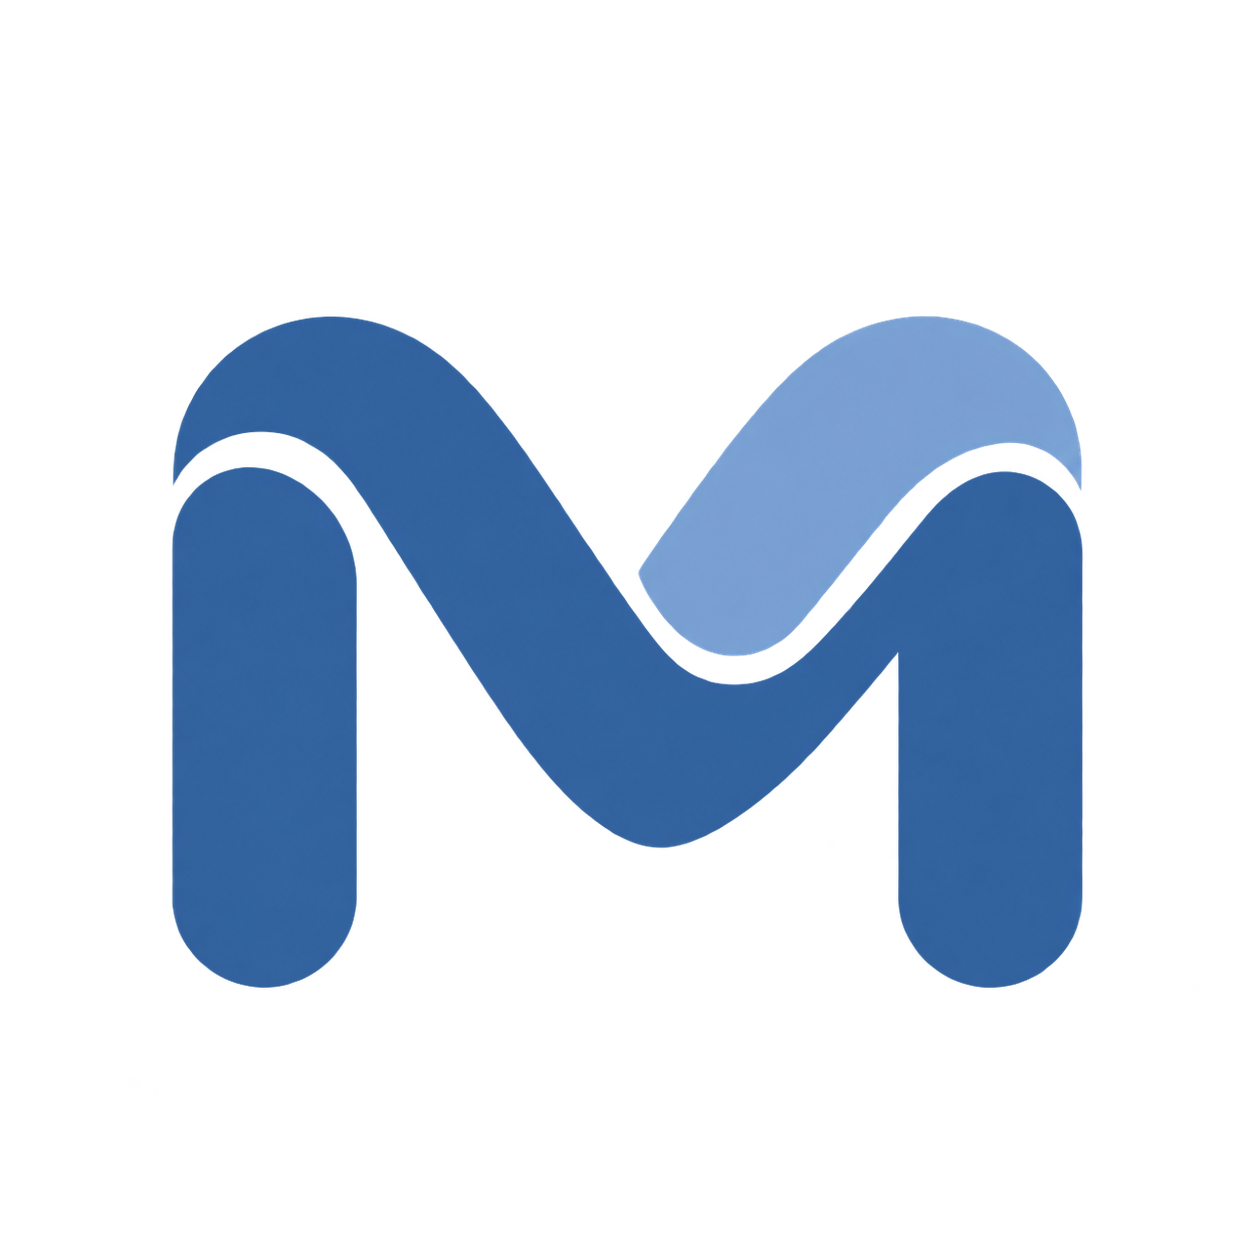
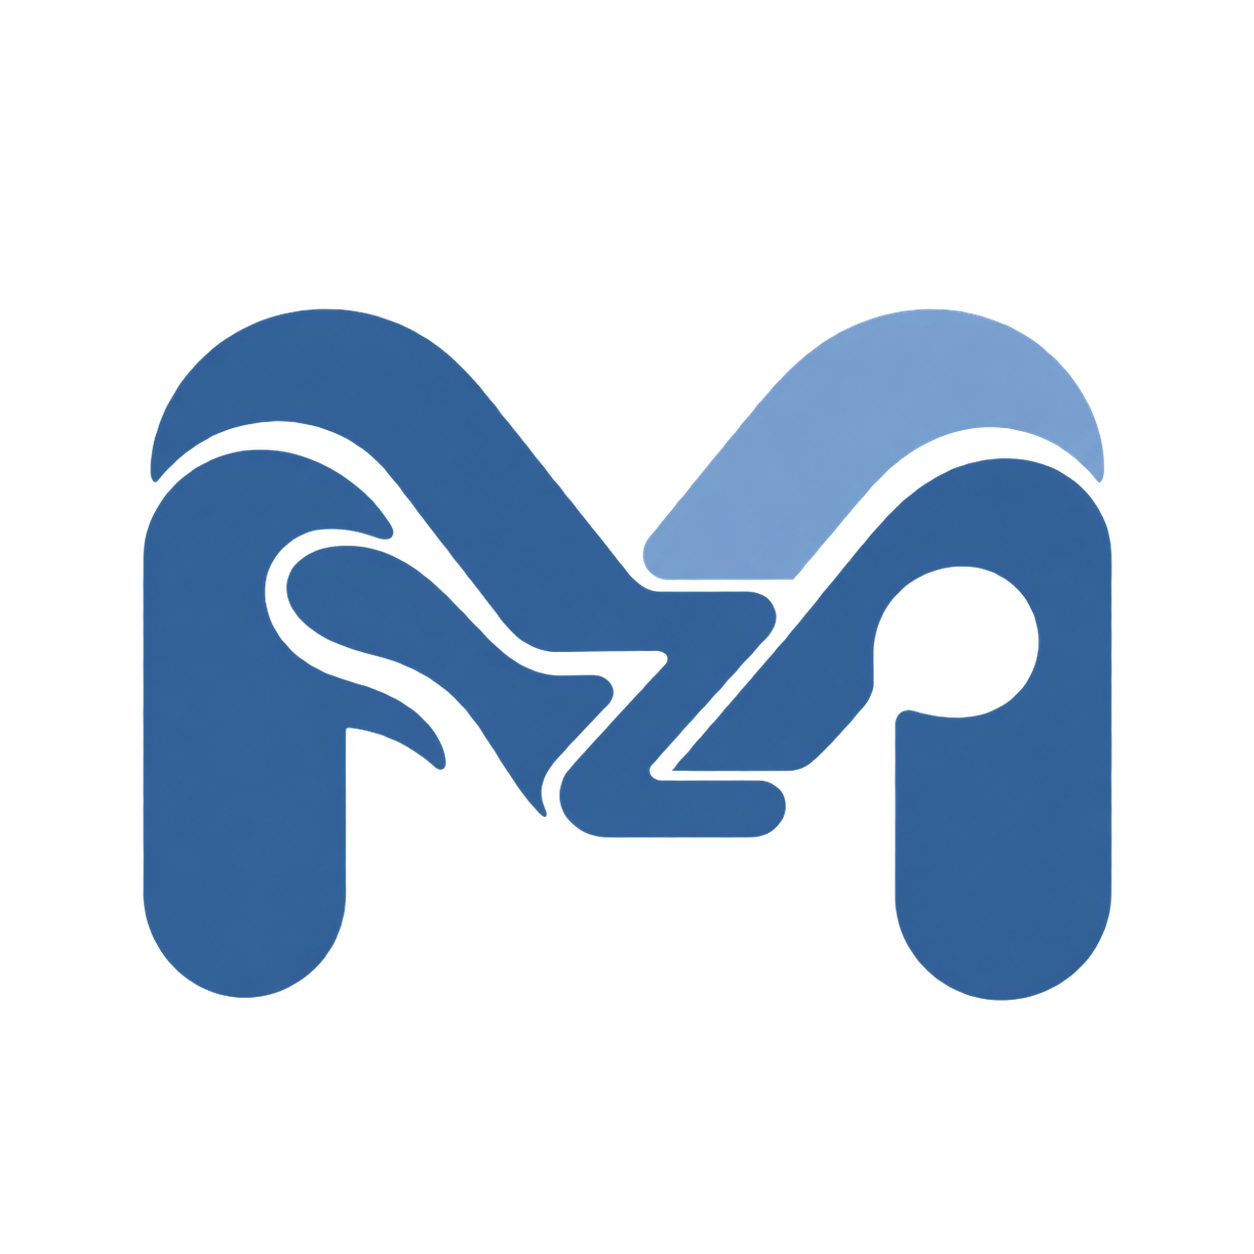
Integrate S Z P with shared M strokes [skip ci]

diff --git a/assets/app-icon-design.md b/assets/app-icon-design.md
@@ -1,6 +1,6 @@
-使用内置 imagegen 编辑生成固定 M 图标。
+使用内置 imagegen 编辑生成固定 M 与隐藏 szp 共用笔画图标。
 
-最终提示词：以 M 为第一眼唯一可见的字母，用左侧弯转、中部斜线及右侧肩部缺口抽象暗示 s、z、p 的结构；不出现可读的 szp 文本、字母镂空或单独小字。保持蓝灰双色 #315F95、#82A7D5、少量形状、柔和圆角、透明底，无阴影。打包时转换为纯色向量。
+最终提示词：保留参照稿中实际交织的字母结构，以左侧 S 弯线、中部 Z 的端线和斜线、右侧 P 的环和竖线共同组成整体 M。将中央 Z 的上下端线改为短水平笔画，使“横—斜—横”可以沿笔画追踪，缩小 P 内环和 S 间隙，不出现单独可读的 szp 文本或中央刻字，也不删去三字母结构。保持蓝灰双色 #315F95、#82A7D5、透明底，无阴影。打包时转换为纯色向量。
 
 手机图标居中，最大宽高占衬底 50%；自适应图标按可见 72dp 衬底计算。衬底为纯白 #FFFFFF。Windows 图标占衬底 70%。
 
